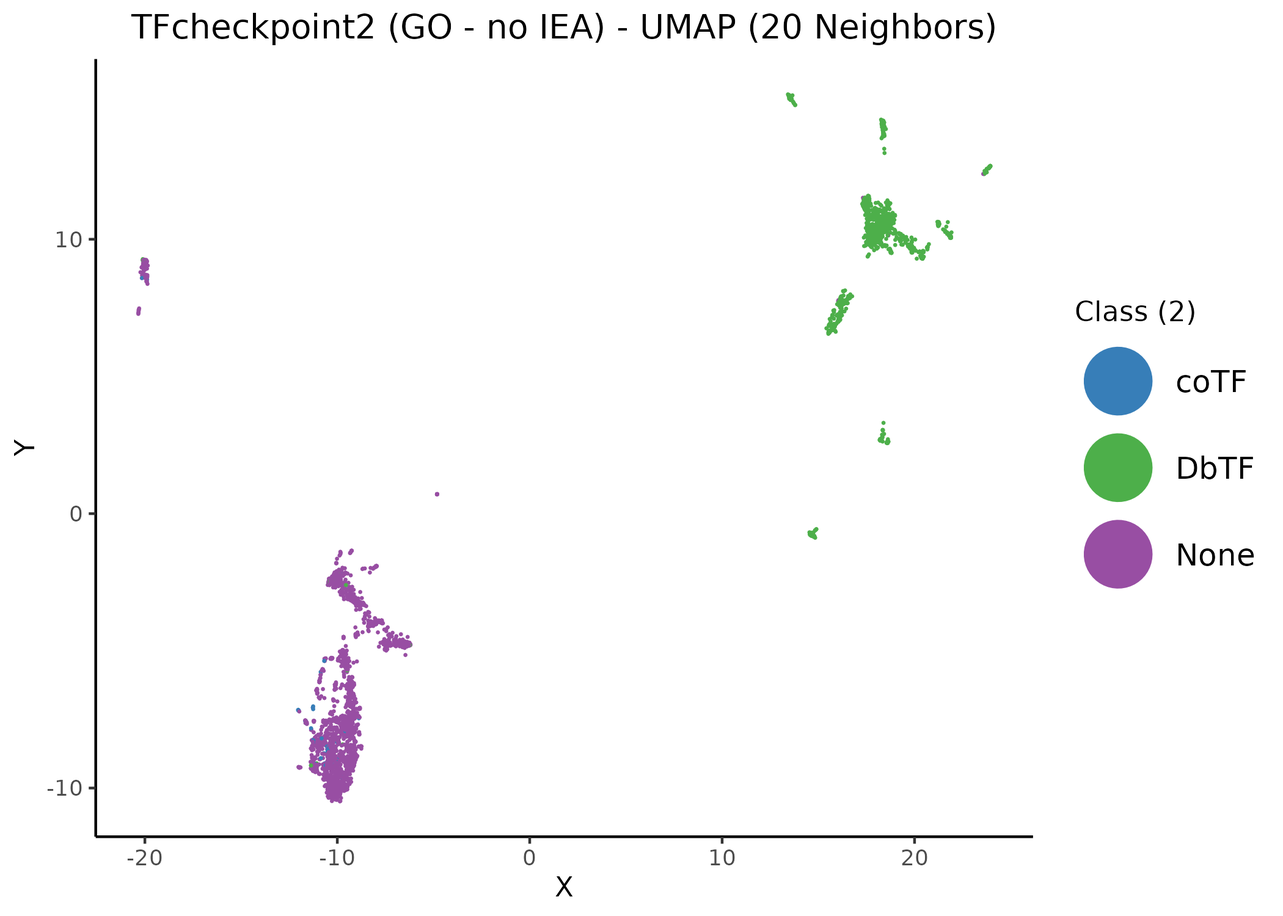
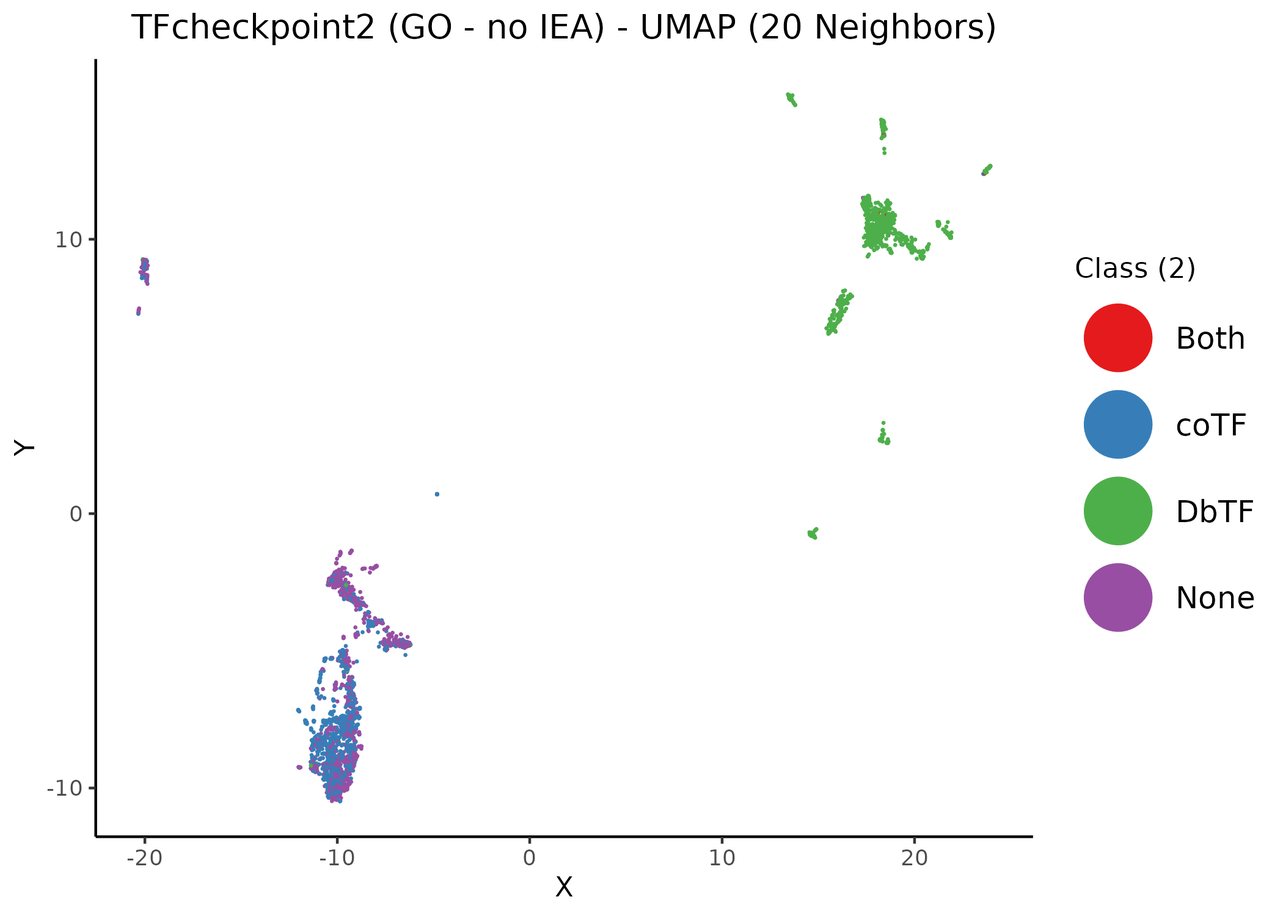
update docs

Changed region(s): [[0.8357, 0.276, 0.9905, 0.7053], [0.2167, 0.7053, 0.2786, 0.8893], [0.2786, 0.6747, 0.3095, 0.7053]]

diff --git a/docs/index.html b/docs/index.html
@@ -921,11 +921,11 @@ div.csl-indent {
 <li class="chapter" data-level="" data-path=""><a href="#interpro-dataset"><i class="fa fa-check"></i>InterPro Dataset</a></li>
 <li class="chapter" data-level="" data-path=""><a href="#go-full-dataset"><i class="fa fa-check"></i>GO (full) Dataset</a></li>
 <li class="chapter" data-level="" data-path=""><a href="#go-no-iea-dataset"><i class="fa fa-check"></i>GO (no IEA) Dataset</a></li>
+<li class="chapter" data-level="" data-path=""><a href="#go-only-iea-dataset"><i class="fa fa-check"></i>GO (only IEA) Dataset</a></li>
 <li class="chapter" data-level="" data-path=""><a href="#combined-dataset"><i class="fa fa-check"></i>Combined Dataset</a></li>
 </ul></li>
-<li class="chapter" data-level="" data-path=""><a href="#nd-cotf-color-annotation-in-umap-using-go-embeddings"><i class="fa fa-check"></i>2nd coTF color annotation in UMAP using GO embeddings</a></li>
+<li class="chapter" data-level="" data-path=""><a href="#go-umap"><i class="fa fa-check"></i>2nd coTF color annotation in UMAP using GO embeddings</a></li>
 <li class="chapter" data-level="" data-path=""><a href="#deeptf-color-annotation-in-umap-using-go-embeddings"><i class="fa fa-check"></i>DeepTF color annotation in UMAP using GO embeddings</a></li>
-<li class="chapter" data-level="" data-path=""><a href="#cluster-annotated-umap---go-dataset"><i class="fa fa-check"></i>Cluster Annotated UMAP - GO Dataset</a></li>
 </ul></li>
 <li class="chapter" data-level="" data-path=""><a href="#r-session-info"><i class="fa fa-check"></i>R session info</a></li>
 <li class="chapter" data-level="" data-path=""><a href="#references"><i class="fa fa-check"></i>References</a></li>
@@ -982,7 +982,8 @@ The dataset is provided as a <a href="https://github.com/druglogics/tfcheckpoint
 <div id="new-dataset" class="section level2 unnumbered">
 <h2>New Dataset</h2>
 <p>The new dataset features an updated curated list of <span class="math inline">\(3842\)</span> proteins that are part of TFcheckpoint (TFch2, v2.0).
-For each of these proteins, we have gathered <strong>Gene ontology (GO) IDs with and without IEA</strong> (Electronic Annotation) from the <a href="http://ftp.ebi.ac.uk/pub/databases/GO/goa/HUMAN/">ftp site</a> of the GO database (files were produced on the 8th of November) and cross-referenced <strong>InterPro domains</strong>, using UniProt’s ID mapping <a href="https://www.uniprot.org/uploadlists/">online service</a> (<code>UniProtKB</code> for <code>To</code> mapping option and selecting the appropriate columns).
+For each of these proteins, we have gathered <strong>Gene ontology (GO) IDs</strong> from the <a href="http://ftp.ebi.ac.uk/pub/databases/GO/goa/HUMAN/">ftp site</a> of the GO database (files were downloaded on the 8th of November) and produced the <strong>full</strong> GO annotations for each protein, the annotations <strong>without IEA</strong> (Electronic Annotations) and the GO terms associated <strong>only</strong> with IEA evidence.
+We cross-referenced the <strong>InterPro domains</strong> for each protein, using UniProt’s ID mapping <a href="https://www.uniprot.org/uploadlists/">online service</a> (<code>UniProtKB</code> for <code>To</code> mapping option and selecting the appropriate columns).
 Also the corresponding gene names (HGNC) were collected using the Uniprot’s uploadlist website on the 8th of November.
 For each protein in TFch2, we also calculated a score denoting the probability of a protein being a transcription factor using DeepTFactor <span class="citation">(<a href="#ref-Kim2021" role="doc-biblioref">Kim et al. 2021</a>)</span>.</p>
 <p>The resulting data file is available as a <a href="https://github.com/druglogics/tfcheckpoint-umap/blob/main/data/data_tbl_16112021.tsv">tab-delimited file</a> (timestamp 16/11/2021).</p>
@@ -1425,7 +1426,8 @@ Figure 23: Supervised UMAP using 14 neighbors. Proteins are colored atop the 2D 
 <h1>Analysis (New Dataset)</h1>
 <div class="blue-box">
 <p>See script <a href="https://github.com/druglogics/tfcheckpoint-umap/blob/main/scripts/new_analysis.R">new_analysis.R</a> for more details.
-We show how to expand the GO and InterPro datasets to 0-1 matrices (get the matrix data in files <a href="https://github.com/druglogics/tfcheckpoint-umap/blob/main/data/go_matrices.zip">here</a>), how we annotated each protein’s class (as <code>DbTF</code>, <code>coTF</code>, <code>Both</code> or <code>None</code>), run UMAP and produce the figures.</p>
+We show how to expand the GO and InterPro datasets to 0-1 matrices, how we annotated each protein’s class (as <code>DbTF</code>, <code>coTF</code>, <code>Both</code> or <code>None</code>), ran UMAP and produced the figures.</p>
+<p><strong>Get the GO matrix data</strong> <a href="https://github.com/druglogics/tfcheckpoint-umap/blob/main/data/go_matrices.zip">here</a>.</p>
 </div>
 <div id="class-annot" class="section level2 unnumbered">
 <h2>Protein Class Annotation</h2>
@@ -1436,9 +1438,10 @@ Proteins that had both the <code>DbTF</code> and <code>coTF</code> labels were c
 <div id="cotf-class1" class="section level3 unnumbered">
 <h3>coTF Annotation 1</h3>
 <div class="blue-box">
-<p>Proteins were labeled as co-transcription factors if they had at least one GO term annotation from this <a href="https://github.com/druglogics/tfcheckpoint-umap/blob/main/data/coTF_GO_terms.tsv">online list</a>.</p>
+<p>Proteins were labeled as co-transcription factors if they had at least one GO term annotation from this <a href="https://github.com/druglogics/tfcheckpoint-umap/blob/main/data/coTF_GO_terms.tsv">online list</a>.
+This is a very <em>relaxed</em> definition for a coTF and will mainly be used for coloring the UMAP embedding of the InterPro domain dataset.</p>
 </div>
-<p>Given the different GO matrices (with or without IEA) we get different distribution of protein class annotations:</p>
+<p>Given the different GO matrices (full, without IEA, and only with IEA GO terms) we get different distribution of protein class annotations:</p>
 <table>
 <thead>
 <tr class="header">
@@ -1464,15 +1467,22 @@ Proteins that had both the <code>DbTF</code> and <code>coTF</code> labels were c
 <td align="center">1347</td>
 <td align="center">1942</td>
 </tr>
+<tr class="odd">
+<td align="center">only IEA</td>
+<td align="center">101</td>
+<td align="center">213</td>
+<td align="center">1336</td>
+<td align="center">2192</td>
+</tr>
 </tbody>
 </table>
 </div>
 <div id="cotf-class2" class="section level3 unnumbered">
 <h3>coTF Annotation 2</h3>
 <div class="blue-box">
-<p>Proteins were labeled as co-transcription factors if they had the GO term <code>GO:0003712</code> <strong>and</strong> were in TcoF-DB v2 <span class="citation">(<a href="#ref-Schmeier2017" role="doc-biblioref">Schmeier et al. 2017</a>)</span>.</p>
+<p>Proteins were labeled as co-transcription factors if they had either the GO term <code>GO:0003712</code> or one of its child terms (see file <a href="https://github.com/druglogics/tfcheckpoint-umap/blob/main/data/coreg_GO_terms_16112021.tsv">here</a>, produced 16/11/2021) <strong>OR</strong> they were annotated as coTFs in TcoF-DB v2 <span class="citation">(<a href="#ref-Schmeier2017" role="doc-biblioref">Schmeier et al. 2017</a>)</span> (see file used with ids <a href="https://github.com/druglogics/tfcheckpoint-umap/blob/main/data/cotfs_from_tfcof_db_tfc2_master_16112021.tsv">here</a>).</p>
 </div>
-<p>Given the different GO matrices (with or without IEA) we get different distribution of protein class annotations (note that there are no proteins classified as both DbTFs and coTFs):</p>
+<p>Given the different GO matrices (all GO terms vs all without IEA) we get different distribution of protein class annotations (note that there are no proteins classified as both DbTFs and coTFs):</p>
 <table>
 <thead>
 <tr class="header">
@@ -1486,35 +1496,47 @@ Proteins that had both the <code>DbTF</code> and <code>coTF</code> labels were c
 <tbody>
 <tr class="odd">
 <td align="center">Full</td>
-<td align="center">0</td>
-<td align="center">67</td>
-<td align="center">1437</td>
-<td align="center">2338</td>
+<td align="center">15</td>
+<td align="center">1170</td>
+<td align="center">1422</td>
+<td align="center">1235</td>
 </tr>
 <tr class="even">
 <td align="center">no IEA</td>
-<td align="center">0</td>
-<td align="center">57</td>
-<td align="center">1437</td>
-<td align="center">2348</td>
+<td align="center">13</td>
+<td align="center">1151</td>
+<td align="center">1424</td>
+<td align="center">1254</td>
 </tr>
 </tbody>
 </table>
+<div class="orange-box">
+<ul>
+<li>The only-IEA matrix is not used with this coloring since in the next section we will see that it does not distinguish the protein UMAP clusters as well as the other two.
+<strong>Curation matters!</strong></li>
+<li>Using this curation-focused labeling of DbTFs and coTFs, we now observe just a very small number of proteins belonging to <code>Both</code> classes.</li>
+</ul>
+</div>
 </div>
 </div>
 <div id="interpro-vs-go-vs-combined-dataset" class="section level2 unnumbered">
 <h2>InterPro vs GO vs Combined Dataset</h2>
 <div class="green-box">
-<p>In the following 4 subsections, we present the UMAP results using 4 different datasets:</p>
+<p>In the following 5 subsections, we present the UMAP results using 5 different datasets/matrices:</p>
 <ol style="list-style-type: decimal">
 <li>The <strong>InterPro matrix</strong></li>
 <li>The <strong>full GO matrix</strong></li>
 <li>The <strong>no IEA GO matrix</strong></li>
+<li>The <strong>only IEA GO matrix</strong></li>
 <li>The <strong>combined full GO matrix and InterPro matrix</strong></li>
 </ol>
-<p>The <a href="#cotf-class1">first coTF class annotation</a> is used in the UMAP coloring.</p>
-<p>Generally, <strong>the full GO dataset was more informative</strong> and provided more compact/cohesive classification of the proteins vs the InterPro dataset.
-Using both datasets we don’t see any significant improvement in the position of the UMAP sub-clusters vs using just the GO (full) matrix.</p>
+<p>The <a href="#cotf-class1">first coTF class annotation</a> is used in the respective UMAP colorings.</p>
+<p>Observations:</p>
+<ul>
+<li><strong>The full GO dataset was more informative</strong> and provided more compact/cohesive classification of the proteins vs the InterPro dataset.
+Using both datasets we don’t see any significant improvement in the position of the UMAP sub-clusters vs using just the GO (full) matrix.</li>
+<li><strong>The only-IEA GO dataset</strong> does not have enough information to correctly distniguish between DbTFs, coTFs and non-TFs.</li>
+</ul>
 </div>
 <div id="interpro-dataset" class="section level3 unnumbered">
 <h3>InterPro Dataset</h3>
@@ -1555,31 +1577,45 @@ Figure 26: Unsupervised UMAP of the TFcheckpoint v2.0 dataset annotated using GO
 </p>
 </div>
 </div>
+<div id="go-only-iea-dataset" class="section level3 unnumbered">
+<h3>GO (only IEA) Dataset</h3>
+<div class="sourceCode" id="cb35"><pre class="sourceCode r"><code class="sourceCode r"><span id="cb35-1"><a href="#cb35-1" aria-hidden="true" tabindex="-1"></a>knitr<span class="sc">::</span><span class="fu">include_graphics</span>(<span class="at">path =</span> <span class="st">&#39;img/tfch2-GO/tfc2_umap_6n_go_only_iea.png&#39;</span>)</span>
+<span id="cb35-2"><a href="#cb35-2" aria-hidden="true" tabindex="-1"></a>knitr<span class="sc">::</span><span class="fu">include_graphics</span>(<span class="at">path =</span> <span class="st">&#39;img/tfch2-GO/tfc2_umap_10n_go_only_iea.png&#39;</span>)</span>
+<span id="cb35-3"><a href="#cb35-3" aria-hidden="true" tabindex="-1"></a>knitr<span class="sc">::</span><span class="fu">include_graphics</span>(<span class="at">path =</span> <span class="st">&#39;img/tfch2-GO/tfc2_umap_14n_go_only_iea.png&#39;</span>)</span>
+<span id="cb35-4"><a href="#cb35-4" aria-hidden="true" tabindex="-1"></a>knitr<span class="sc">::</span><span class="fu">include_graphics</span>(<span class="at">path =</span> <span class="st">&#39;img/tfch2-GO/tfc2_umap_20n_go_only_iea.png&#39;</span>)</span></code></pre></div>
+<div class="figure"><span style="display:block;" id="fig:tfch2-umap-go-only-iea"></span>
+<img src="img/tfch2-GO/tfc2_umap_6n_go_only_iea.png" alt="Unsupervised UMAP of the TFcheckpoint v2.0 dataset annotated using GO terms associated only with IEA evidence. Different values of the neighbors parameter per figure. Data points (proteins) have been colored according to their their respective class annotation (1)." width="50%" /><img src="img/tfch2-GO/tfc2_umap_10n_go_only_iea.png" alt="Unsupervised UMAP of the TFcheckpoint v2.0 dataset annotated using GO terms associated only with IEA evidence. Different values of the neighbors parameter per figure. Data points (proteins) have been colored according to their their respective class annotation (1)." width="50%" /><img src="img/tfch2-GO/tfc2_umap_14n_go_only_iea.png" alt="Unsupervised UMAP of the TFcheckpoint v2.0 dataset annotated using GO terms associated only with IEA evidence. Different values of the neighbors parameter per figure. Data points (proteins) have been colored according to their their respective class annotation (1)." width="50%" /><img src="img/tfch2-GO/tfc2_umap_20n_go_only_iea.png" alt="Unsupervised UMAP of the TFcheckpoint v2.0 dataset annotated using GO terms associated only with IEA evidence. Different values of the neighbors parameter per figure. Data points (proteins) have been colored according to their their respective class annotation (1)." width="50%" />
+<p class="caption">
+Figure 27: Unsupervised UMAP of the TFcheckpoint v2.0 dataset annotated using GO terms associated only with IEA evidence. Different values of the neighbors parameter per figure. Data points (proteins) have been colored according to their their respective class annotation (1).
+</p>
+</div>
+</div>
 <div id="combined-dataset" class="section level3 unnumbered">
 <h3>Combined Dataset</h3>
-<div class="sourceCode" id="cb35"><pre class="sourceCode r"><code class="sourceCode r"><span id="cb35-1"><a href="#cb35-1" aria-hidden="true" tabindex="-1"></a>knitr<span class="sc">::</span><span class="fu">include_graphics</span>(<span class="at">path =</span> <span class="st">&#39;img/tfch2-combined/tfc2_umap_6n_combined.png&#39;</span>)</span>
-<span id="cb35-2"><a href="#cb35-2" aria-hidden="true" tabindex="-1"></a>knitr<span class="sc">::</span><span class="fu">include_graphics</span>(<span class="at">path =</span> <span class="st">&#39;img/tfch2-combined/tfc2_umap_10n_combined.png&#39;</span>)</span>
-<span id="cb35-3"><a href="#cb35-3" aria-hidden="true" tabindex="-1"></a>knitr<span class="sc">::</span><span class="fu">include_graphics</span>(<span class="at">path =</span> <span class="st">&#39;img/tfch2-combined/tfc2_umap_14n_combined.png&#39;</span>)</span>
-<span id="cb35-4"><a href="#cb35-4" aria-hidden="true" tabindex="-1"></a>knitr<span class="sc">::</span><span class="fu">include_graphics</span>(<span class="at">path =</span> <span class="st">&#39;img/tfch2-combined/tfc2_umap_20n_combined.png&#39;</span>)</span></code></pre></div>
+<div class="sourceCode" id="cb36"><pre class="sourceCode r"><code class="sourceCode r"><span id="cb36-1"><a href="#cb36-1" aria-hidden="true" tabindex="-1"></a>knitr<span class="sc">::</span><span class="fu">include_graphics</span>(<span class="at">path =</span> <span class="st">&#39;img/tfch2-combined/tfc2_umap_6n_combined.png&#39;</span>)</span>
+<span id="cb36-2"><a href="#cb36-2" aria-hidden="true" tabindex="-1"></a>knitr<span class="sc">::</span><span class="fu">include_graphics</span>(<span class="at">path =</span> <span class="st">&#39;img/tfch2-combined/tfc2_umap_10n_combined.png&#39;</span>)</span>
+<span id="cb36-3"><a href="#cb36-3" aria-hidden="true" tabindex="-1"></a>knitr<span class="sc">::</span><span class="fu">include_graphics</span>(<span class="at">path =</span> <span class="st">&#39;img/tfch2-combined/tfc2_umap_14n_combined.png&#39;</span>)</span>
+<span id="cb36-4"><a href="#cb36-4" aria-hidden="true" tabindex="-1"></a>knitr<span class="sc">::</span><span class="fu">include_graphics</span>(<span class="at">path =</span> <span class="st">&#39;img/tfch2-combined/tfc2_umap_20n_combined.png&#39;</span>)</span></code></pre></div>
 <div class="figure"><span style="display:block;" id="fig:tfch2-umap-combined"></span>
 <img src="img/tfch2-combined/tfc2_umap_6n_combined.png" alt="Unsupervised UMAP of the TFcheckpoint v2.0 dataset annotated using both InterPro domains and GO terms. Different values of the neighbors parameter per figure. Data points (proteins) have been colored according to their respective class annotation (1)." width="50%" /><img src="img/tfch2-combined/tfc2_umap_10n_combined.png" alt="Unsupervised UMAP of the TFcheckpoint v2.0 dataset annotated using both InterPro domains and GO terms. Different values of the neighbors parameter per figure. Data points (proteins) have been colored according to their respective class annotation (1)." width="50%" /><img src="img/tfch2-combined/tfc2_umap_14n_combined.png" alt="Unsupervised UMAP of the TFcheckpoint v2.0 dataset annotated using both InterPro domains and GO terms. Different values of the neighbors parameter per figure. Data points (proteins) have been colored according to their respective class annotation (1)." width="50%" /><img src="img/tfch2-combined/tfc2_umap_20n_combined.png" alt="Unsupervised UMAP of the TFcheckpoint v2.0 dataset annotated using both InterPro domains and GO terms. Different values of the neighbors parameter per figure. Data points (proteins) have been colored according to their respective class annotation (1)." width="50%" />
 <p class="caption">
-Figure 27: Unsupervised UMAP of the TFcheckpoint v2.0 dataset annotated using both InterPro domains and GO terms. Different values of the neighbors parameter per figure. Data points (proteins) have been colored according to their respective class annotation (1).
+Figure 28: Unsupervised UMAP of the TFcheckpoint v2.0 dataset annotated using both InterPro domains and GO terms. Different values of the neighbors parameter per figure. Data points (proteins) have been colored according to their respective class annotation (1).
 </p>
 </div>
 </div>
 </div>
-<div id="nd-cotf-color-annotation-in-umap-using-go-embeddings" class="section level2 unnumbered">
+<div id="go-umap" class="section level2 unnumbered">
 <h2>2nd coTF color annotation in UMAP using GO embeddings</h2>
 <ul>
-<li>The <a href="#cotf-class2">second coTF class annotation</a> is used in the UMAP coloring.</li>
+<li>The <a href="#cotf-class2">2nd coTF class annotation</a> is used in the below UMAP figures for coloring.</li>
+<li>We use the UMAP embedding of two GO matrices: (1) the full and (2) the one with IEA GO terms removed</li>
 </ul>
-<div class="sourceCode" id="cb36"><pre class="sourceCode r"><code class="sourceCode r"><span id="cb36-1"><a href="#cb36-1" aria-hidden="true" tabindex="-1"></a>knitr<span class="sc">::</span><span class="fu">include_graphics</span>(<span class="at">path =</span> <span class="st">&#39;img/tfch2-GO/tfc2_umap_20n_go_class_2.png&#39;</span>)</span>
-<span id="cb36-2"><a href="#cb36-2" aria-hidden="true" tabindex="-1"></a>knitr<span class="sc">::</span><span class="fu">include_graphics</span>(<span class="at">path =</span> <span class="st">&#39;img/tfch2-GO/tfc2_umap_20n_go_no_iea_class_2.png&#39;</span>)</span></code></pre></div>
+<div class="sourceCode" id="cb37"><pre class="sourceCode r"><code class="sourceCode r"><span id="cb37-1"><a href="#cb37-1" aria-hidden="true" tabindex="-1"></a>knitr<span class="sc">::</span><span class="fu">include_graphics</span>(<span class="at">path =</span> <span class="st">&#39;img/tfch2-GO/tfc2_umap_20n_go_class_2.png&#39;</span>)</span>
+<span id="cb37-2"><a href="#cb37-2" aria-hidden="true" tabindex="-1"></a>knitr<span class="sc">::</span><span class="fu">include_graphics</span>(<span class="at">path =</span> <span class="st">&#39;img/tfch2-GO/tfc2_umap_20n_go_no_iea_class_2.png&#39;</span>)</span></code></pre></div>
 <div class="figure"><span style="display:block;" id="fig:tfch2-umap-go-2nd-cotf-coloring"></span>
 <img src="img/tfch2-GO/tfc2_umap_20n_go_class_2.png" alt="Unsupervised UMAP of the TFcheckpoint v2.0 dataset annotated using GO terms (with and without IEA). 20 neighbors. Data points (proteins) have been colored according to their respective class annotation (2)." width="50%" /><img src="img/tfch2-GO/tfc2_umap_20n_go_no_iea_class_2.png" alt="Unsupervised UMAP of the TFcheckpoint v2.0 dataset annotated using GO terms (with and without IEA). 20 neighbors. Data points (proteins) have been colored according to their respective class annotation (2)." width="50%" />
 <p class="caption">
-Figure 28: Unsupervised UMAP of the TFcheckpoint v2.0 dataset annotated using GO terms (with and without IEA). 20 neighbors. Data points (proteins) have been colored according to their respective class annotation (2).
+Figure 29: Unsupervised UMAP of the TFcheckpoint v2.0 dataset annotated using GO terms (with and without IEA). 20 neighbors. Data points (proteins) have been colored according to their respective class annotation (2).
 </p>
 </div>
 </div>
@@ -1587,29 +1623,27 @@ Figure 28: Unsupervised UMAP of the TFcheckpoint v2.0 dataset annotated using GO
 <h2>DeepTF color annotation in UMAP using GO embeddings</h2>
 <ul>
 <li>Proteins with no DeepTF score are colored black</li>
+<li>We use the UMAP embedding of two GO matrices: (1) the full and (2) the one with IEA GO terms removed</li>
 </ul>
-<div class="sourceCode" id="cb37"><pre class="sourceCode r"><code class="sourceCode r"><span id="cb37-1"><a href="#cb37-1" aria-hidden="true" tabindex="-1"></a>knitr<span class="sc">::</span><span class="fu">include_graphics</span>(<span class="at">path =</span> <span class="st">&#39;img/tfch2-GO/tfc2_umap_20n_go_deeptf.png&#39;</span>)</span>
-<span id="cb37-2"><a href="#cb37-2" aria-hidden="true" tabindex="-1"></a>knitr<span class="sc">::</span><span class="fu">include_graphics</span>(<span class="at">path =</span> <span class="st">&#39;img/tfch2-GO/tfc2_umap_20n_go_no_iea_deeptf.png&#39;</span>)</span></code></pre></div>
+<div class="sourceCode" id="cb38"><pre class="sourceCode r"><code class="sourceCode r"><span id="cb38-1"><a href="#cb38-1" aria-hidden="true" tabindex="-1"></a>knitr<span class="sc">::</span><span class="fu">include_graphics</span>(<span class="at">path =</span> <span class="st">&#39;img/tfch2-GO/tfc2_umap_20n_go_deeptf.png&#39;</span>)</span>
+<span id="cb38-2"><a href="#cb38-2" aria-hidden="true" tabindex="-1"></a>knitr<span class="sc">::</span><span class="fu">include_graphics</span>(<span class="at">path =</span> <span class="st">&#39;img/tfch2-GO/tfc2_umap_20n_go_no_iea_deeptf.png&#39;</span>)</span></code></pre></div>
 <div class="figure"><span style="display:block;" id="fig:tfch2-umap-go-deeptf-coloring"></span>
 <img src="img/tfch2-GO/tfc2_umap_20n_go_deeptf.png" alt="Unsupervised UMAP of the TFcheckpoint v2.0 dataset annotated using GO terms (with and without IEA). 20 neighbors. Data points (proteins) have been colored according to their respective DeepTF score." width="50%" /><img src="img/tfch2-GO/tfc2_umap_20n_go_no_iea_deeptf.png" alt="Unsupervised UMAP of the TFcheckpoint v2.0 dataset annotated using GO terms (with and without IEA). 20 neighbors. Data points (proteins) have been colored according to their respective DeepTF score." width="50%" />
 <p class="caption">
-Figure 29: Unsupervised UMAP of the TFcheckpoint v2.0 dataset annotated using GO terms (with and without IEA). 20 neighbors. Data points (proteins) have been colored according to their respective DeepTF score.
+Figure 30: Unsupervised UMAP of the TFcheckpoint v2.0 dataset annotated using GO terms (with and without IEA). 20 neighbors. Data points (proteins) have been colored according to their respective DeepTF score.
 </p>
 </div>
-</div>
-<div id="cluster-annotated-umap---go-dataset" class="section level2 unnumbered">
-<h2>Cluster Annotated UMAP - GO Dataset</h2>
-<p>We use the UMAP embedding (<strong>GO dataset, 20 neighbors</strong>) to discuss several interesting cases of proteins that seem to belong in different clusters than they should be, based on the protein class annotation:</p>
 <div class="green-box">
 <ul>
-<li>See <a href="https://github.com/druglogics/tfcheckpoint-umap/blob/main/data/TODO.csv">file</a> with the protein ids, gene names, cluster ids and annotated class.</li>
+<li>DeepTF seems to correctly predict the DbTFs in the right-up cluster (score close to 1)</li>
+<li>Most proteins for which we couldn’t predict any score are in the no-TF/coTF left-down cluster</li>
 </ul>
 </div>
 </div>
 </div>
 <div id="r-session-info" class="section level1 unnumbered">
 <h1>R session info</h1>
-<div class="sourceCode" id="cb38"><pre class="sourceCode r fold-show"><code class="sourceCode r"><span id="cb38-1"><a href="#cb38-1" aria-hidden="true" tabindex="-1"></a>xfun<span class="sc">::</span><span class="fu">session_info</span>()</span></code></pre></div>
+<div class="sourceCode" id="cb39"><pre class="sourceCode r fold-show"><code class="sourceCode r"><span id="cb39-1"><a href="#cb39-1" aria-hidden="true" tabindex="-1"></a>xfun<span class="sc">::</span><span class="fu">session_info</span>()</span></code></pre></div>
 <pre><code>R version 3.6.3 (2020-02-29)
 Platform: x86_64-pc-linux-gnu (64-bit)
 Running under: Ubuntu 20.04.3 LTS

diff --git a/docs/404.html b/docs/404.html
@@ -921,11 +921,11 @@ div.csl-indent {
 <li class="chapter" data-level="" data-path=""><a href="#interpro-dataset"><i class="fa fa-check"></i>InterPro Dataset</a></li>
 <li class="chapter" data-level="" data-path=""><a href="#go-full-dataset"><i class="fa fa-check"></i>GO (full) Dataset</a></li>
 <li class="chapter" data-level="" data-path=""><a href="#go-no-iea-dataset"><i class="fa fa-check"></i>GO (no IEA) Dataset</a></li>
+<li class="chapter" data-level="" data-path=""><a href="#go-only-iea-dataset"><i class="fa fa-check"></i>GO (only IEA) Dataset</a></li>
 <li class="chapter" data-level="" data-path=""><a href="#combined-dataset"><i class="fa fa-check"></i>Combined Dataset</a></li>
 </ul></li>
-<li class="chapter" data-level="" data-path=""><a href="#nd-cotf-color-annotation-in-umap-using-go-embeddings"><i class="fa fa-check"></i>2nd coTF color annotation in UMAP using GO embeddings</a></li>
+<li class="chapter" data-level="" data-path=""><a href="#go-umap"><i class="fa fa-check"></i>2nd coTF color annotation in UMAP using GO embeddings</a></li>
 <li class="chapter" data-level="" data-path=""><a href="#deeptf-color-annotation-in-umap-using-go-embeddings"><i class="fa fa-check"></i>DeepTF color annotation in UMAP using GO embeddings</a></li>
-<li class="chapter" data-level="" data-path=""><a href="#cluster-annotated-umap---go-dataset"><i class="fa fa-check"></i>Cluster Annotated UMAP - GO Dataset</a></li>
 </ul></li>
 <li class="chapter" data-level="" data-path=""><a href="#r-session-info"><i class="fa fa-check"></i>R session info</a></li>
 <li class="chapter" data-level="" data-path=""><a href="#references"><i class="fa fa-check"></i>References</a></li>

diff --git a/docs/index.md b/docs/index.md
@@ -43,7 +43,8 @@ Analysis on this dataset was performed **November 2020**.
 ## New Dataset {-}
 
 The new dataset features an updated curated list of $3842$ proteins that are part of TFcheckpoint (TFch2, v2.0).
-For each of these proteins, we have gathered **Gene ontology (GO) IDs with and without IEA** (Electronic Annotation) from the [ftp site](http://ftp.ebi.ac.uk/pub/databases/GO/goa/HUMAN/) of the GO database (files were produced on the 8th of November) and cross-referenced **InterPro domains**, using UniProt's ID mapping [online service](https://www.uniprot.org/uploadlists/) (`UniProtKB` for `To` mapping option and selecting the appropriate columns).
+For each of these proteins, we have gathered **Gene ontology (GO) IDs** from the [ftp site](http://ftp.ebi.ac.uk/pub/databases/GO/goa/HUMAN/) of the GO database (files were downloaded on the 8th of November) and produced the **full** GO annotations for each protein, the annotations **without IEA** (Electronic Annotations) and the GO terms associated **only** with IEA evidence.
+We cross-referenced the **InterPro domains** for each protein, using UniProt's ID mapping [online service](https://www.uniprot.org/uploadlists/) (`UniProtKB` for `To` mapping option and selecting the appropriate columns).
 Also the corresponding gene names (HGNC) were collected using the Uniprot's uploadlist website on the 8th of November.
 For each protein in TFch2, we also calculated a score denoting the probability of a protein being a transcription factor using DeepTFactor [@Kim2021].
 
@@ -522,7 +523,9 @@ knitr::include_graphics(path = 'img/sumap/tf_sumap_14n_w1_schmeier.png')
 
 :::{.blue-box}
 See script [new_analysis.R](https://github.com/druglogics/tfcheckpoint-umap/blob/main/scripts/new_analysis.R) for more details.
-We show how to expand the GO and InterPro datasets to 0-1 matrices (get the matrix data in files [here](https://github.com/druglogics/tfcheckpoint-umap/blob/main/data/go_matrices.zip)), how we annotated each protein's class (as `DbTF`, `coTF`, `Both` or `None`), run UMAP and produce the figures.
+We show how to expand the GO and InterPro datasets to 0-1 matrices, how we annotated each protein's class (as `DbTF`, `coTF`, `Both` or `None`), ran UMAP and produced the figures.
+
+**Get the GO matrix data** [here](https://github.com/druglogics/tfcheckpoint-umap/blob/main/data/go_matrices.zip).
 :::
 
 ## Protein Class Annotation {-#class-annot}
@@ -536,42 +539,54 @@ Proteins that had both the `DbTF` and `coTF` labels were classified as `Both` an
 
 :::{.blue-box}
 Proteins were labeled as co-transcription factors if they had at least one GO term annotation from this [online list](https://github.com/druglogics/tfcheckpoint-umap/blob/main/data/coTF_GO_terms.tsv).
+This is a very *relaxed* definition for a coTF and will mainly be used for coloring the UMAP embedding of the InterPro domain dataset.
 :::
 
-Given the different GO matrices (with or without IEA) we get different distribution of protein class annotations:
+Given the different GO matrices (full, without IEA, and only with IEA GO terms) we get different distribution of protein class annotations:
 
 | GO matrix | Both | coTF | DbTF | None |
 |:-:|:-:|:-:|:-:|:-:|
 | Full   | 176 | 593 | 1261 | 1812 |
 | no IEA |  90 | 463 | 1347 | 1942 |
+| only IEA | 101 | 213 | 1336 | 2192 |
 
 ### coTF Annotation 2 {-#cotf-class2}
 
 :::{.blue-box}
-Proteins were labeled as co-transcription factors if they had the GO term `GO:0003712` **and** were in TcoF-DB v2 [@Schmeier2017].
+Proteins were labeled as co-transcription factors if they had either the GO term `GO:0003712` or one of its child terms (see file [here](https://github.com/druglogics/tfcheckpoint-umap/blob/main/data/coreg_GO_terms_16112021.tsv), produced 16/11/2021) **OR** they were annotated as coTFs in TcoF-DB v2 [@Schmeier2017] (see file used with ids [here](https://github.com/druglogics/tfcheckpoint-umap/blob/main/data/cotfs_from_tfcof_db_tfc2_master_16112021.tsv)).
 :::
 
-Given the different GO matrices (with or without IEA) we get different distribution of protein class annotations (note that there are no proteins classified as both DbTFs and coTFs):
+Given the different GO matrices (all GO terms vs all without IEA) we get different distribution of protein class annotations (note that there are no proteins classified as both DbTFs and coTFs):
 
 | GO matrix | Both | coTF | DbTF | None |
 |:-:|:-:|:-:|:-:|:-:|
-| Full   | 0 | 67 | 1437 | 2338 |
-| no IEA | 0 | 57 | 1437 | 2348 |
+| Full   | 15 | 1170 | 1422 | 1235 |
+| no IEA | 13 | 1151 | 1424 | 1254 |
+
+:::{.orange-box}
+- The only-IEA matrix is not used with this coloring since in the next section we will see that it does not distinguish the protein UMAP clusters as well as the other two.
+**Curation matters!**
+- Using this curation-focused labeling of DbTFs and coTFs, we now observe just a very small number of proteins belonging to `Both` classes.
+:::
 
 ## InterPro vs GO vs Combined Dataset {-}
 
 :::{.green-box}
-In the following 4 subsections, we present the UMAP results using 4 different datasets:
+In the following 5 subsections, we present the UMAP results using 5 different datasets/matrices:
 
 1. The **InterPro matrix**
 2. The **full GO matrix**
 3. The **no IEA GO matrix**
-4. The **combined full GO matrix and InterPro matrix**
+4. The **only IEA GO matrix**
+5. The **combined full GO matrix and InterPro matrix**
 
-The [first coTF class annotation](#cotf-class1) is used in the UMAP coloring.
+The [first coTF class annotation](#cotf-class1) is used in the respective UMAP colorings.
 
-Generally, **the full GO dataset was more informative** and provided more compact/cohesive classification of the proteins vs the InterPro dataset.
+Observations:
+
+- **The full GO dataset was more informative** and provided more compact/cohesive classification of the proteins vs the InterPro dataset.
 Using both datasets we don't see any significant improvement in the position of the UMAP sub-clusters vs using just the GO (full) matrix.
+- **The only-IEA GO dataset** does not have enough information to correctly distniguish between DbTFs, coTFs and non-TFs.
 :::
 
 ### InterPro Dataset {-}
@@ -619,6 +634,21 @@ knitr::include_graphics(path = 'img/tfch2-GO/tfc2_umap_20n_go_no_iea.png')
 <p class="caption">(\#fig:tfch2-umap-go-no-iea)Unsupervised UMAP of the TFcheckpoint v2.0 dataset annotated using GO terms with no IEA. Different values of the neighbors parameter per figure. Data points (proteins) have been colored according to their their respective class annotation (1).</p>
 </div>
 
+### GO (only IEA) Dataset {-}
+
+
+```r
+knitr::include_graphics(path = 'img/tfch2-GO/tfc2_umap_6n_go_only_iea.png')
+knitr::include_graphics(path = 'img/tfch2-GO/tfc2_umap_10n_go_only_iea.png')
+knitr::include_graphics(path = 'img/tfch2-GO/tfc2_umap_14n_go_only_iea.png')
+knitr::include_graphics(path = 'img/tfch2-GO/tfc2_umap_20n_go_only_iea.png')
+```
+
+<div class="figure">
+<img src="img/tfch2-GO/tfc2_umap_6n_go_only_iea.png" alt="Unsupervised UMAP of the TFcheckpoint v2.0 dataset annotated using GO terms associated only with IEA evidence. Different values of the neighbors parameter per figure. Data points (proteins) have been colored according to their their respective class annotation (1)." width="50%" /><img src="img/tfch2-GO/tfc2_umap_10n_go_only_iea.png" alt="Unsupervised UMAP of the TFcheckpoint v2.0 dataset annotated using GO terms associated only with IEA evidence. Different values of the neighbors parameter per figure. Data points (proteins) have been colored according to their their respective class annotation (1)." width="50%" /><img src="img/tfch2-GO/tfc2_umap_14n_go_only_iea.png" alt="Unsupervised UMAP of the TFcheckpoint v2.0 dataset annotated using GO terms associated only with IEA evidence. Different values of the neighbors parameter per figure. Data points (proteins) have been colored according to their their respective class annotation (1)." width="50%" /><img src="img/tfch2-GO/tfc2_umap_20n_go_only_iea.png" alt="Unsupervised UMAP of the TFcheckpoint v2.0 dataset annotated using GO terms associated only with IEA evidence. Different values of the neighbors parameter per figure. Data points (proteins) have been colored according to their their respective class annotation (1)." width="50%" />
+<p class="caption">(\#fig:tfch2-umap-go-only-iea)Unsupervised UMAP of the TFcheckpoint v2.0 dataset annotated using GO terms associated only with IEA evidence. Different values of the neighbors parameter per figure. Data points (proteins) have been colored according to their their respective class annotation (1).</p>
+</div>
+
 ### Combined Dataset {-}
 
 
@@ -634,9 +664,10 @@ knitr::include_graphics(path = 'img/tfch2-combined/tfc2_umap_20n_combined.png')
 <p class="caption">(\#fig:tfch2-umap-combined)Unsupervised UMAP of the TFcheckpoint v2.0 dataset annotated using both InterPro domains and GO terms. Different values of the neighbors parameter per figure. Data points (proteins) have been colored according to their respective class annotation (1).</p>
 </div>
 
-## 2nd coTF color annotation in UMAP using GO embeddings {-}
+## 2nd coTF color annotation in UMAP using GO embeddings {-#go-umap}
 
-- The [second coTF class annotation](#cotf-class2) is used in the UMAP coloring.
+- The [2nd coTF class annotation](#cotf-class2) is used in the below UMAP figures for coloring.
+- We use the UMAP embedding of two GO matrices: (1) the full and (2) the one with IEA GO terms removed
 
 
 ```r
@@ -649,9 +680,10 @@ knitr::include_graphics(path = 'img/tfch2-GO/tfc2_umap_20n_go_no_iea_class_2.png
 <p class="caption">(\#fig:tfch2-umap-go-2nd-cotf-coloring)Unsupervised UMAP of the TFcheckpoint v2.0 dataset annotated using GO terms (with and without IEA). 20 neighbors. Data points (proteins) have been colored according to their respective class annotation (2).</p>
 </div>
 
-## DeepTF color annotation in UMAP using GO embeddings {-} 
+## DeepTF color annotation in UMAP using GO embeddings {-}
 
 - Proteins with no DeepTF score are colored black
+- We use the UMAP embedding of two GO matrices: (1) the full and (2) the one with IEA GO terms removed
 
 
 ```r
@@ -664,14 +696,9 @@ knitr::include_graphics(path = 'img/tfch2-GO/tfc2_umap_20n_go_no_iea_deeptf.png'
 <p class="caption">(\#fig:tfch2-umap-go-deeptf-coloring)Unsupervised UMAP of the TFcheckpoint v2.0 dataset annotated using GO terms (with and without IEA). 20 neighbors. Data points (proteins) have been colored according to their respective DeepTF score.</p>
 </div>
 
-## Cluster Annotated UMAP - GO Dataset {-}
-
-We use the UMAP embedding (**GO dataset, 20 neighbors**) to discuss several interesting cases of proteins that seem to belong in different clusters than they should be, based on the protein class annotation:
-
-
-
 :::{.green-box}
-- See [file](https://github.com/druglogics/tfcheckpoint-umap/blob/main/data/TODO.csv) with the protein ids, gene names, cluster ids and annotated class.
+- DeepTF seems to correctly predict the DbTFs in the right-up cluster (score close to 1)
+- Most proteins for which we couldn't predict any score are in the no-TF/coTF left-down cluster
 :::
 
 # R session info {-}
